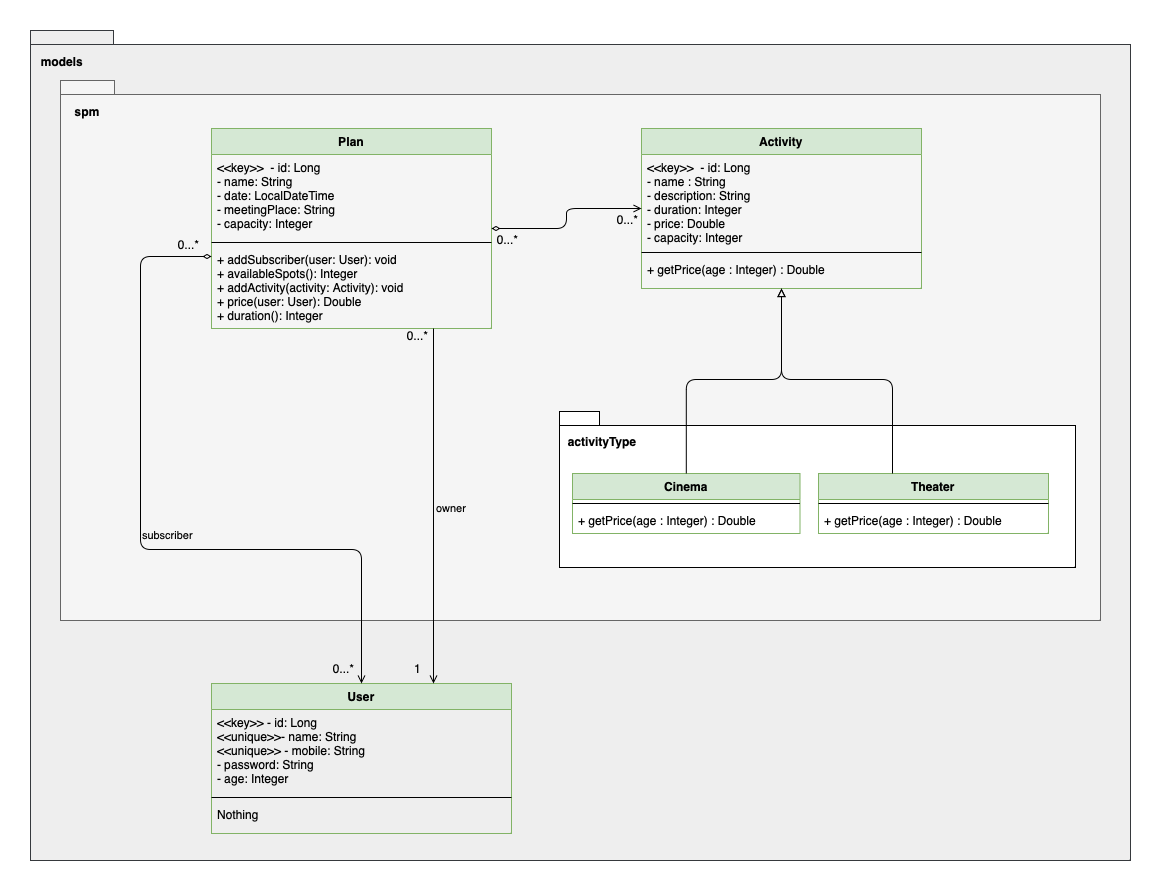
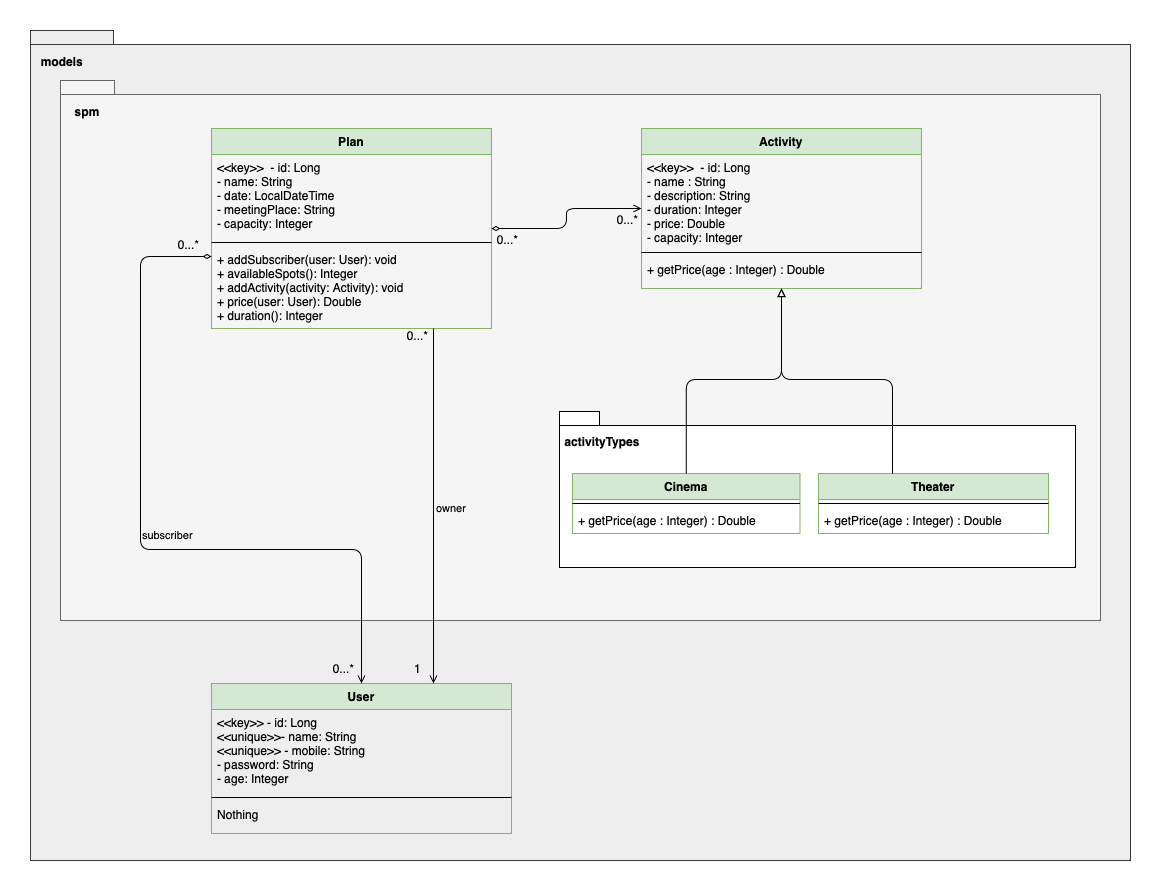
fix: object build of activityTypes

diff --git a/src/main/java/org/stafloker/data/models/spm/Activity.java b/src/main/java/org/stafloker/data/models/spm/Activity.java
@@ -1,6 +1,7 @@
 package org.stafloker.data.models.spm;
 
 import lombok.*;
+import lombok.experimental.SuperBuilder;
 import org.stafloker.data.models.exceptions.InvalidAttributeException;
 
 import jakarta.persistence.*;
@@ -8,7 +9,7 @@ import jakarta.persistence.*;
 @Data
 @NoArgsConstructor
 @AllArgsConstructor
-@Builder
+@SuperBuilder
 @EqualsAndHashCode(onlyExplicitlyIncluded = true)
 @Entity
 @Table(name = "activities")
@@ -42,19 +43,5 @@ public class Activity {
             throw new InvalidAttributeException("Minimum capacity is " + MIN_CAPACITY + ": " + capacity);
         }
         this.capacity = capacity;
-    }
-
-    public static class ActivityBuilder {
-        public ActivityBuilder capacity(Integer capacity){
-            this.setCapacity(capacity);
-            return this;
-        }
-
-        private void setCapacity(Integer capacity) {
-            if (capacity < MIN_CAPACITY) {
-                throw new InvalidAttributeException("Minimum capacity is " + MIN_CAPACITY + ": " + capacity);
-            }
-            this.capacity = capacity;
-        }
     }
 }

diff --git a/src/main/java/org/stafloker/data/models/User.java b/src/main/java/org/stafloker/data/models/User.java
@@ -43,30 +43,4 @@ public class User {
         }
         this.age = age;
     }
-
-    public static class UserBuilder {
-        public UserBuilder password(String password) {
-            this.setPassword(password);
-            return this;
-        }
-
-        private void setPassword(String password) {
-            if (password.length() < MIN_LONG_PASSWORD) {
-                throw new InvalidAttributeException("Password has less than three characters: " + password);
-            }
-            this.password = password;
-        }
-
-        public UserBuilder age(Integer age) {
-            this.setAge(age);
-            return this;
-        }
-
-        private void setAge(Integer age) {
-            if (age < MIN_AGE || age > MAX_AGE) {
-                throw new InvalidAttributeException("Age is not in your range [" + MIN_AGE + "," + MAX_AGE + "]: " + age);
-            }
-            this.age = age;
-        }
-    }
 }

diff --git a/src/main/java/org/stafloker/data/daos/seeders/SpmSeederServiceDev.java b/src/main/java/org/stafloker/data/daos/seeders/SpmSeederServiceDev.java
@@ -6,8 +6,8 @@ import org.springframework.stereotype.Repository;
 import org.springframework.context.annotation.Profile;
 import org.stafloker.data.models.spm.Activity;
 import org.stafloker.data.models.spm.Plan;
-import org.stafloker.data.models.spm.activityType.Cinema;
-import org.stafloker.data.models.spm.activityType.Theater;
+import org.stafloker.data.models.spm.activityTypes.Cinema;
+import org.stafloker.data.models.spm.activityTypes.Theater;
 import org.stafloker.data.daos.ActivityRepository;
 import org.stafloker.data.daos.PlanRepository;
 import org.stafloker.data.daos.UserRepository;

diff --git a/src/main/java/org/stafloker/data/models/spm/Plan.java b/src/main/java/org/stafloker/data/models/spm/Plan.java
@@ -98,18 +98,4 @@ public class Plan {
         }
         this.capacity = capacity;
     }
-
-    public static class PlanBuilder {
-        public PlanBuilder capacity(Integer capacity){
-            this.setCapacity(capacity);
-            return this;
-        }
-
-        private void setCapacity(Integer capacity) {
-            if (capacity < MIN_CAPACITY) {
-                throw new InvalidAttributeException("Minimum capacity is " + MIN_CAPACITY + ": " + capacity);
-            }
-            this.capacity = capacity;
-        }
-    }
 }

diff --git a/src/main/java/org/stafloker/data/models/spm/activityTypes/Theater.java b/src/main/java/org/stafloker/data/models/spm/activityTypes/Theater.java
@@ -1,10 +1,14 @@
-package org.stafloker.data.models.spm.activityType;
+package org.stafloker.data.models.spm.activityTypes;
 
+import lombok.NoArgsConstructor;
+import lombok.experimental.SuperBuilder;
 import org.stafloker.data.models.spm.Activity;
 
 import jakarta.persistence.*;
 
 @Entity
+@SuperBuilder
+@NoArgsConstructor
 @DiscriminatorValue("Theater")
 public class Theater extends Activity {
     private static final double YOUTH_THEATER_DISCOUNT = 0.50;

diff --git a/src/main/java/org/stafloker/data/models/spm/activityTypes/Cinema.java b/src/main/java/org/stafloker/data/models/spm/activityTypes/Cinema.java
@@ -1,10 +1,14 @@
-package org.stafloker.data.models.spm.activityType;
+package org.stafloker.data.models.spm.activityTypes;
 
+import lombok.NoArgsConstructor;
+import lombok.experimental.SuperBuilder;
 import org.stafloker.data.models.spm.Activity;
 
 import jakarta.persistence.*;
 
 @Entity
+@SuperBuilder
+@NoArgsConstructor
 @DiscriminatorValue("Cinema")
 public class Cinema extends Activity {
     private static final int MAX_YOUTH_MOVIE_DISCOUNT_AGE = 21;

diff --git a/src/main/java/org/stafloker/console/commands/activityCommands/CreateActivity.java b/src/main/java/org/stafloker/console/commands/activityCommands/CreateActivity.java
@@ -7,7 +7,7 @@ import org.stafloker.console.Command;
 import org.stafloker.console.View;
 import org.stafloker.console.exceptions.UnsupportedAttributesException;
 import org.stafloker.data.models.spm.Activity;
-import org.stafloker.data.models.spm.activityType.*;
+import org.stafloker.data.models.spm.activityTypes.*;
 import org.stafloker.services.ActivityService;
 
 @Controller

diff --git a/src/test/java/org/stafloker/data/daos/ActivityRepositoryTest.java b/src/test/java/org/stafloker/data/daos/ActivityRepositoryTest.java
@@ -4,7 +4,7 @@ import org.junit.jupiter.api.Test;
 import org.springframework.beans.factory.annotation.Autowired;
 import org.stafloker.TestConfig;
 import org.stafloker.data.models.spm.Activity;
-import org.stafloker.data.models.spm.activityType.Theater;
+import org.stafloker.data.models.spm.activityTypes.Theater;
 
 import java.util.List;
 
